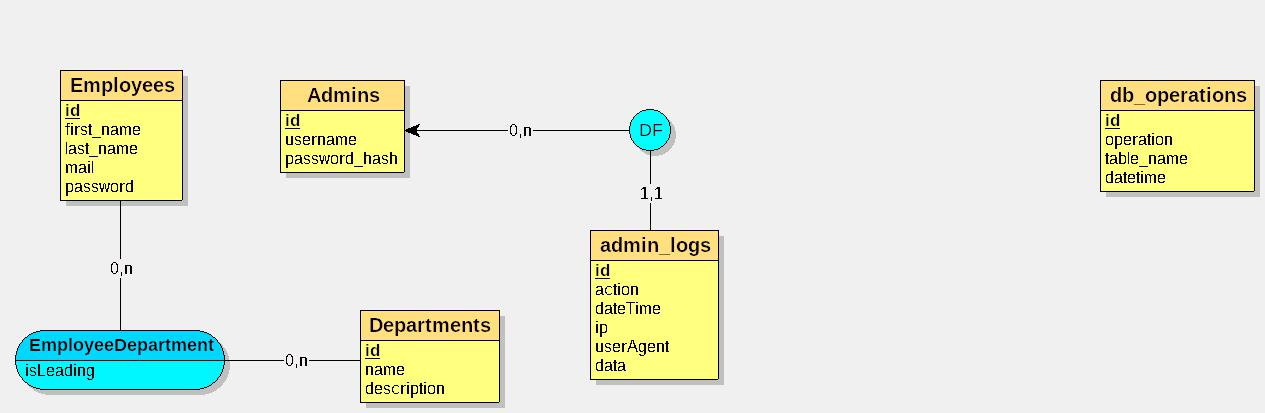
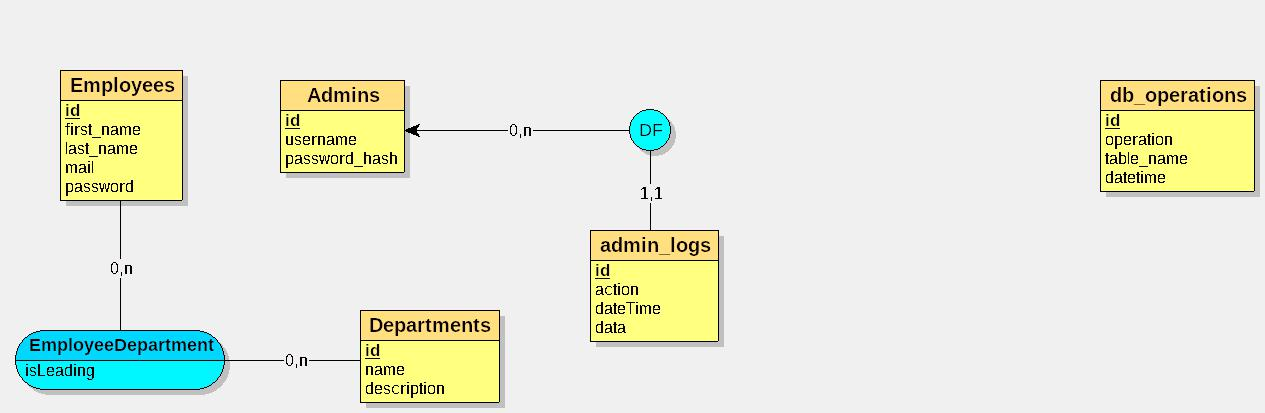
Ajout de l'interface de visualisation des logs

Changed region(s): [[0.4625, 0.7845, 0.5858, 0.9298]]

diff --git a/WebApp/src/main/resources/templates/logs/index.html b/WebApp/src/main/resources/templates/logs/index.html
@@ -1,0 +1,29 @@
+<!DOCTYPE html>
+<html>
+	<head>
+		<meta charset="UTF-8">
+		<link th:href="@{/css/stylesheet.css}" rel="stylesheet" />
+		<title>H&R Association Manager</title>
+	</head>
+	<body>
+		<h1>H&R Association Manager - Logs</h1>
+		<div id="employeeManager">
+			<table>
+				<thead>
+					<th>Pseudo</th>
+					<th>Action</th>
+					<th>Date</th>
+					<th>Détails</th>
+				</thead>
+				<tbody>
+					<tr th:each="log: ${logs}">
+			        	<td><p th:text="${log.admin.username}"></p></td>
+			            <td><p th:text="${log.action}"></p></td>
+			            <td><p th:text="${log.dateTime}"></p></td>
+			            <td><a th:href="@{/logs/{id}(id=${log.id})}">Détails</a></td>
+			        </tr>
+				</tbody>
+			</table>
+		</div>
+	</body>
+</html>

diff --git a/WebApp/src/main/resources/templates/logs/details.html b/WebApp/src/main/resources/templates/logs/details.html
@@ -1,0 +1,15 @@
+<!DOCTYPE html>
+<html>
+	<head>
+		<meta charset="UTF-8">
+		<link th:href="@{/css/stylesheet.css}" rel="stylesheet" />
+		<title>H&R Association Manager</title>
+	</head>
+	<body>
+		<h1>H&R Association Manager - Logs</h1>
+		<div class='center'>
+			<p th:text="'Action effectuée par ' + ${log.admin.username}"></p>
+			<textarea readonly th:text="${log.data}"></textarea>
+		</div>
+	</body>
+</html>

diff --git a/WebApp/src/main/resources/templates/home.html b/WebApp/src/main/resources/templates/home.html
@@ -34,6 +34,7 @@
 			<div id='addEmployeeContainer'>
 				<a id='addEmployeeButton' th:href="@{/addEmployee}">Ajouter un employé</a>
 				<a id='addEmployeeButton' th:href="@{/departments}">Gestionnaire de Services</a>
+				<a id='addEmployeeButton' th:href="@{/logs/index}">Visionner les logs</a>
 			</div>
 		</div>
 	</body>

diff --git a/WebApp/src/main/resources/static/css/stylesheet.css b/WebApp/src/main/resources/static/css/stylesheet.css
@@ -121,3 +121,6 @@ h1 {
 	text-align: center;
 	margin-top: 1%;
 }
+.frame {
+	border: 3px;
+}

diff --git a/WebApp/src/main/java/com/hr/webapp/repository/AdminLogsRepository.java b/WebApp/src/main/java/com/hr/webapp/repository/AdminLogsRepository.java
@@ -1,0 +1,35 @@
+package com.hr.webapp.repository;
+
+import java.util.List;
+
+import org.springframework.beans.factory.annotation.Autowired;
+import org.springframework.http.ResponseEntity;
+import org.springframework.stereotype.Component;
+
+import com.hr.webapp.model.AdminLogs;
+import com.hr.webapp.model.Department;
+import com.hr.webapp.utils.PropertiesReader;
+
+import io.jsonwebtoken.lang.Arrays;
+
+@Component
+public class AdminLogsRepository extends BaseRepository {
+	
+	@Autowired 
+	private PropertiesReader properties;
+	
+	public List<AdminLogs> getLogs() {
+		String apiUrl = properties.getApiUrl();
+		String endpoint = apiUrl + "/logs/index";
+		ResponseEntity<AdminLogs[]> response = get(endpoint, AdminLogs[].class);
+		return Arrays.asList(response.getBody());
+	}
+	
+	public AdminLogs getLog(Long id) {
+		String apiUrl = properties.getApiUrl();
+		String endpoint = apiUrl + "/logs/details/" + id;
+		ResponseEntity<AdminLogs> response = get(endpoint, AdminLogs.class);
+		return response.getBody();
+	}
+
+}

diff --git a/WebApp/src/main/java/com/hr/webapp/controller/AdminLogsController.java b/WebApp/src/main/java/com/hr/webapp/controller/AdminLogsController.java
@@ -1,0 +1,33 @@
+package com.hr.webapp.controller;
+
+import java.util.List;
+
+import org.springframework.beans.factory.annotation.Autowired;
+import org.springframework.stereotype.Controller;
+import org.springframework.ui.Model;
+import org.springframework.web.bind.annotation.GetMapping;
+import org.springframework.web.bind.annotation.PathVariable;
+
+import com.hr.webapp.model.AdminLogs;
+import com.hr.webapp.service.AdminLogsService;
+
+@Controller
+public class AdminLogsController {
+
+	@Autowired 
+	private AdminLogsService adminLogsService;
+	
+	@GetMapping("/logs/index")
+	public String logsIndex(Model model) {
+		List<AdminLogs> logs = adminLogsService.getLogs();
+		model.addAttribute("logs", logs);
+		return "logs/index";
+	}
+	
+	@GetMapping("/logs/{id}")
+	public String logsDetails(@PathVariable Long id, Model model) {
+		AdminLogs log = adminLogsService.getLog(id);
+		model.addAttribute("log", log);
+		return "logs/details";
+	}
+}

diff --git a/API/src/main/java/com/hr/api/controller/AdminLogsController.java b/API/src/main/java/com/hr/api/controller/AdminLogsController.java
@@ -1,0 +1,28 @@
+package com.hr.api.controller;
+
+import java.util.Optional;
+
+import org.springframework.beans.factory.annotation.Autowired;
+import org.springframework.web.bind.annotation.GetMapping;
+import org.springframework.web.bind.annotation.PathVariable;
+import org.springframework.web.bind.annotation.RestController;
+
+import com.hr.api.model.AdminLogs;
+import com.hr.api.service.AdminLogsService;
+
+@RestController
+public class AdminLogsController {
+	
+	@Autowired
+	private AdminLogsService logsService;
+	
+	@GetMapping("/logs/index")
+	public Iterable<AdminLogs> showLogs() {
+		return logsService.getAllAdminLogs();
+	}
+	
+	@GetMapping("/logs/details/{id}")
+	public Optional<AdminLogs> showLog(@PathVariable Long id) {
+		return logsService.getAdminLogs(id);
+	}
+}

diff --git a/WebApp/src/main/java/com/hr/webapp/service/AdminLogsService.java b/WebApp/src/main/java/com/hr/webapp/service/AdminLogsService.java
@@ -1,0 +1,24 @@
+package com.hr.webapp.service;
+
+import java.util.List;
+
+import org.springframework.beans.factory.annotation.Autowired;
+import org.springframework.stereotype.Service;
+
+import com.hr.webapp.model.AdminLogs;
+import com.hr.webapp.repository.AdminLogsRepository;
+
+@Service
+public class AdminLogsService {
+
+	@Autowired 
+	private AdminLogsRepository repository;
+	
+	public List<AdminLogs> getLogs() {
+		return repository.getLogs();
+	}
+	
+	public AdminLogs getLog(Long id) {
+		return repository.getLog(id);
+	}
+}

diff --git a/WebApp/src/main/java/com/hr/webapp/model/AdminLogs.java b/WebApp/src/main/java/com/hr/webapp/model/AdminLogs.java
@@ -1,0 +1,15 @@
+package com.hr.webapp.model;
+
+import java.time.Instant;
+
+import lombok.Data;
+
+@Data
+public class AdminLogs {
+
+	private int id;
+	private Admin admin;
+	private String action;
+	private Instant dateTime;
+	private String data;
+}
